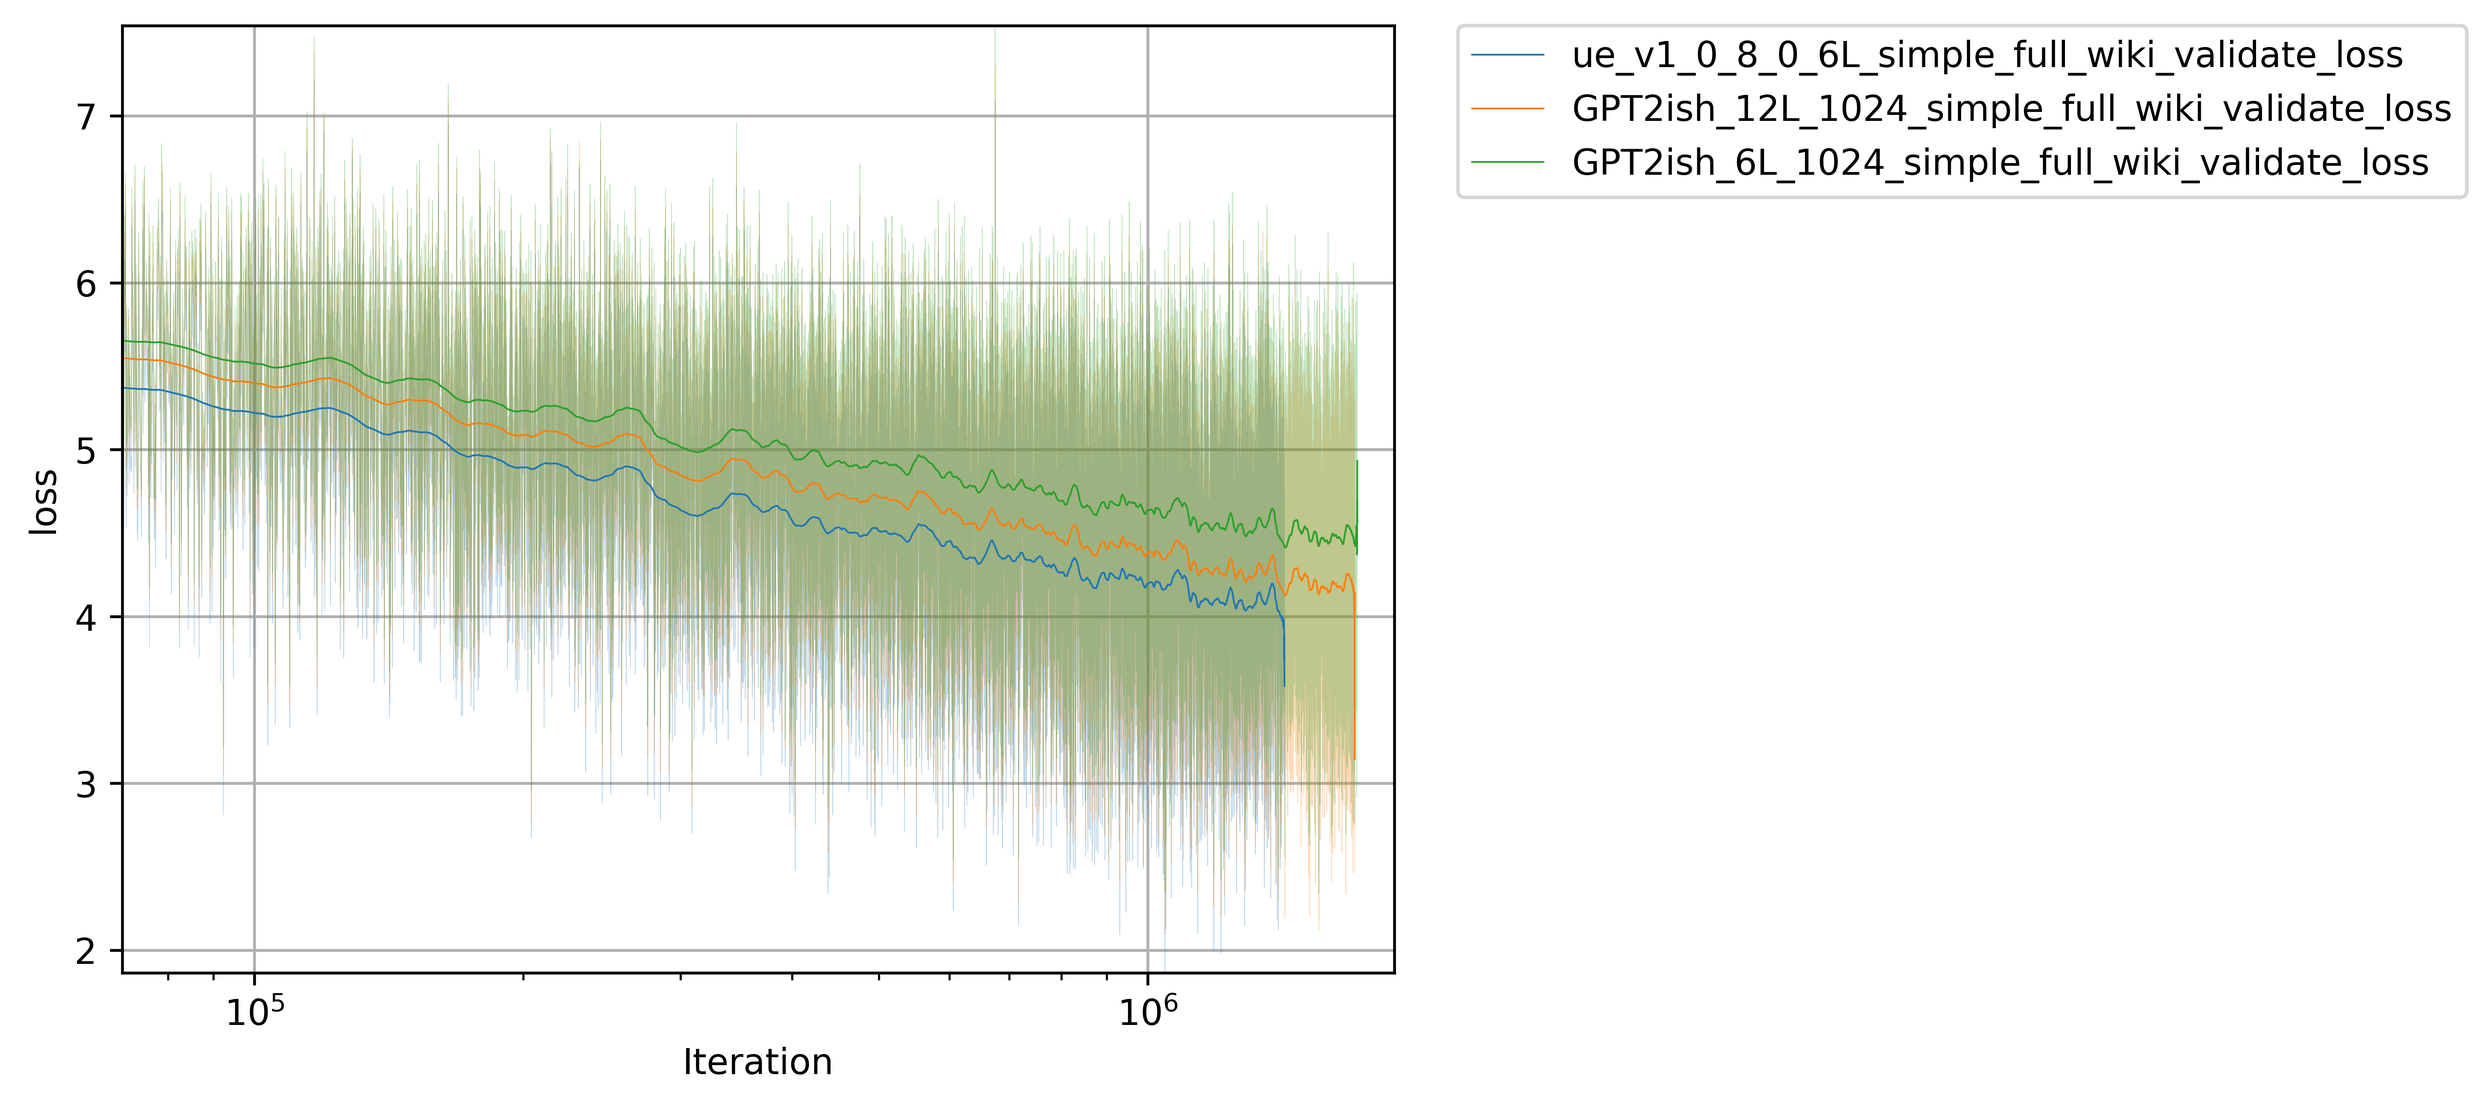
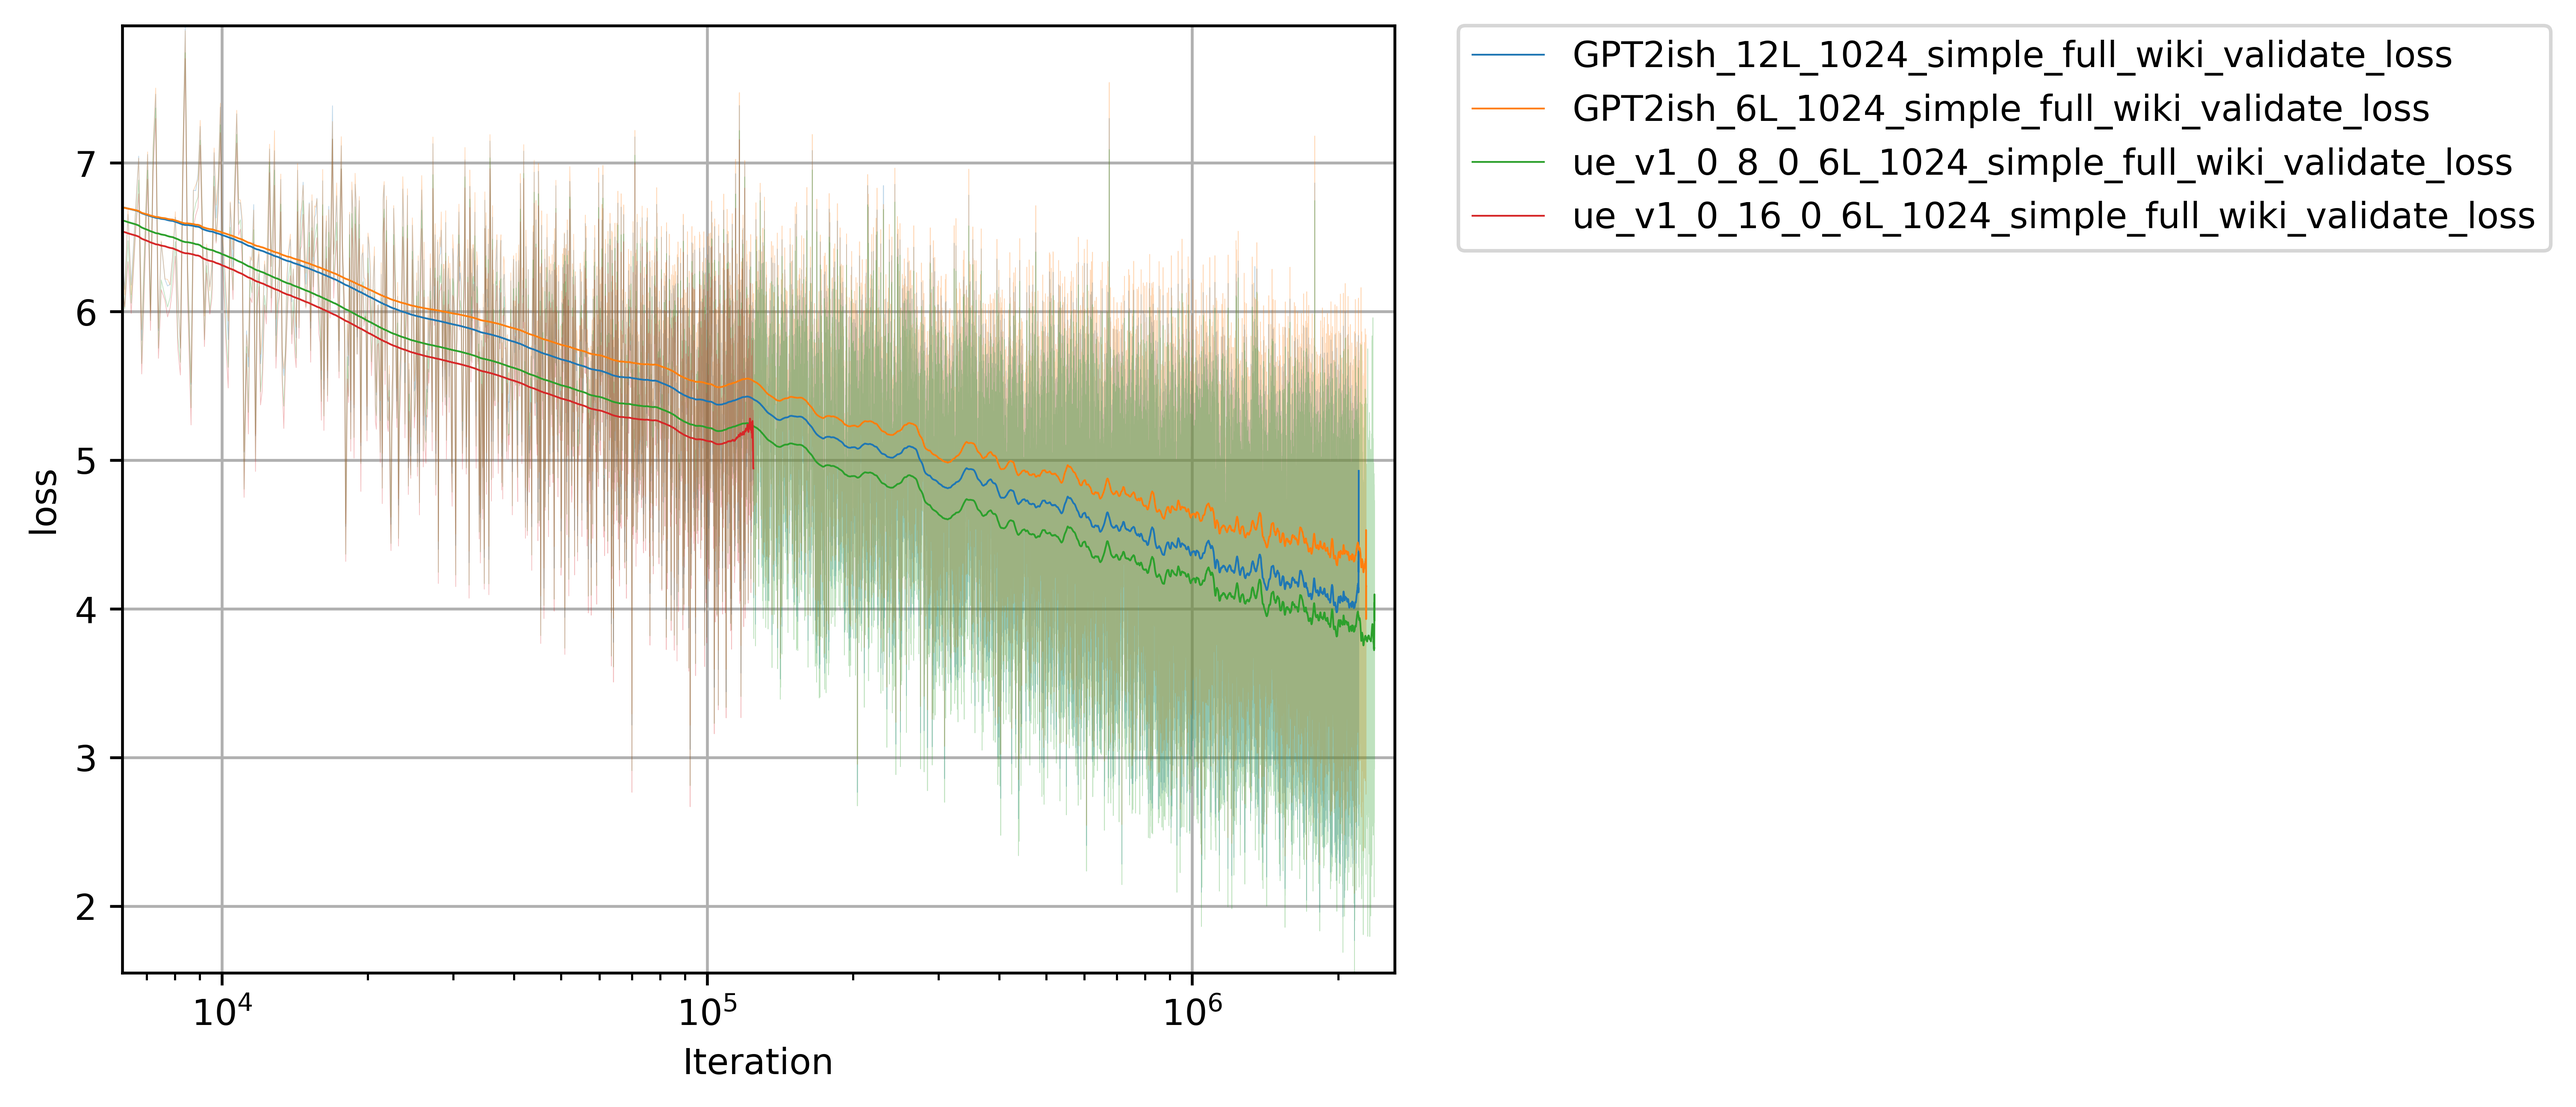
updated the readme and training plots

diff --git a/README.md b/README.md
@@ -53,10 +53,10 @@ For production inference all vocab embeddings can be generated and stored and th
 The limited testing I have done so far looks quite promising:
 
 ![](results/ue_log_loss.png)
-This graph shows a 6 layer UE model beating a 12 layer baseline model, at least in initial training. The long term benefits are still unknown but these results are promising. The 6 layer UE model here has exactly the same prod inference costs/structure/weights/etc as a baseline 6 layer GPTish model. Only during training does it need extra logic/parameters.
+This graph shows a 6 layer UE model beating a 12 layer baseline model, at least in initial training. The long term benefits are still unknown but these results are promising. The 6 layer UE model here has exactly the same prod inference costs/structure/weights/etc as a baseline 6 layer GPTish model. Only during training does it need extra logic/parameters. Additionally, you can see that the larger the UE the better (so far) with the 16x UE outperforming the 8x one.
 The norm plot shows performance better:
 ![](results/ue_log_norm_loss.png)
-Here you can clearly see how much better the 6 layer UE model is over the 6 layer baseline model. It is still gaining ground on it in fact. The 12 layer baseline is also losing to the 6 layer UE model, but that gap is slowly shrinking. Clearly, longer runs are needed. I will update this plot as the runs continue.
+Here you can clearly see how much better the 6 layer UE models are over the 6 and 12 layer baseline models. It is still gaining ground on the 6 while the 12 is slowly catching back up. Clearly, longer runs are needed. I will update this plot as the runs continue.
 
 ## Future experiments
 I am slowly 'cleaning up' many projects that I have been working on and intend to release them as I have longer training runs on them. I am currently limited to my one 3070 so even these limited runs take several days each. In fact, one epoch on the dataset in use will take roughly 10 days per model to complete. I expect that the current testing will take at least another 20 days to finish one epoch for all models.
